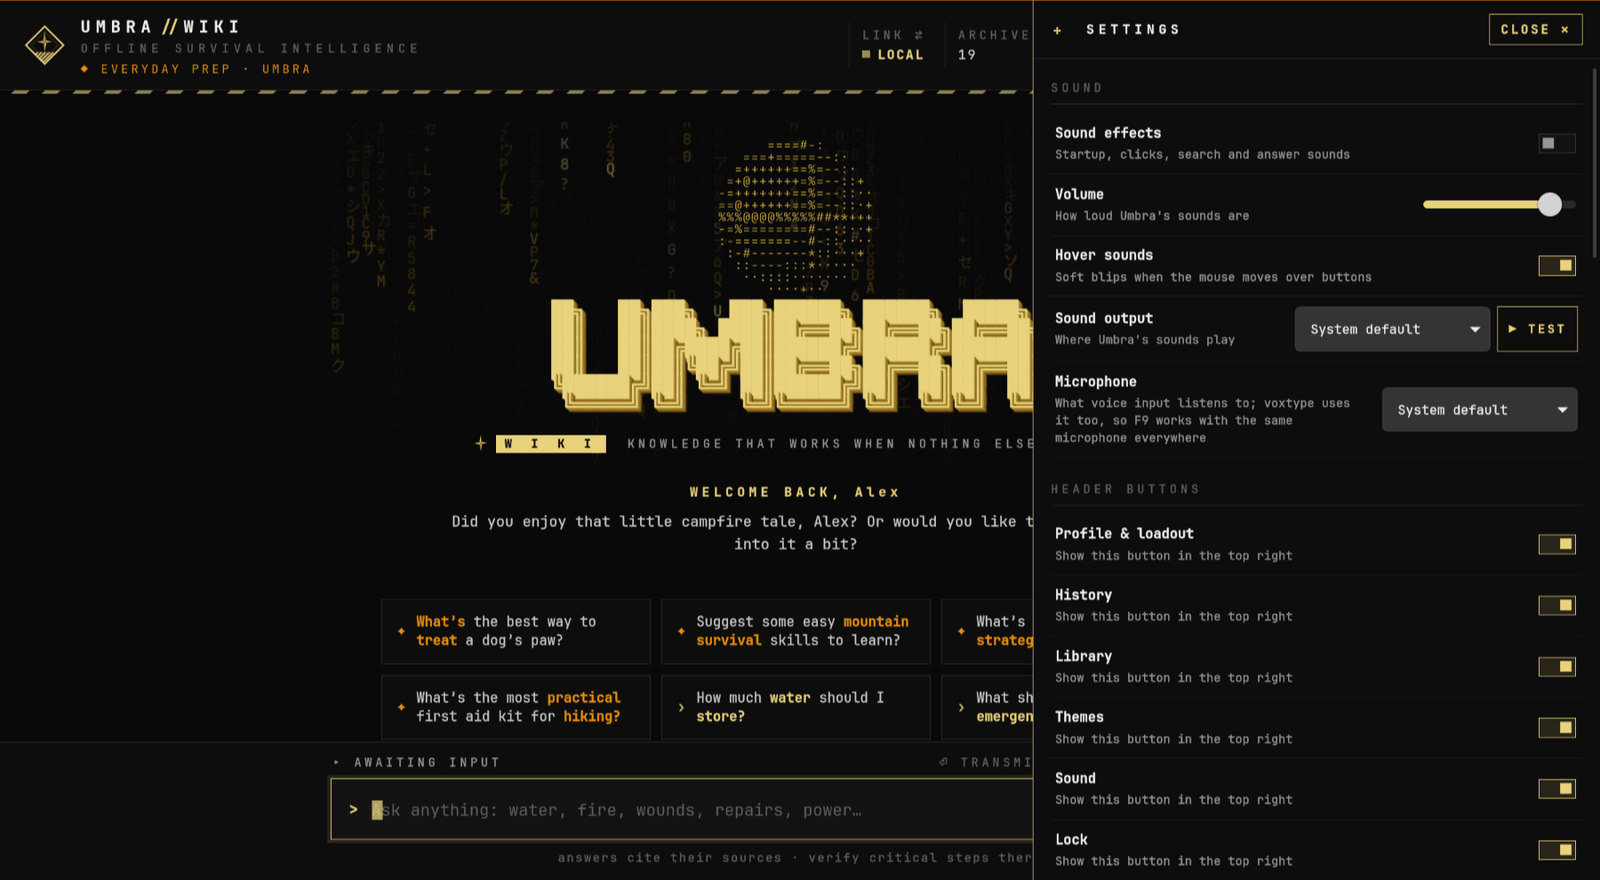
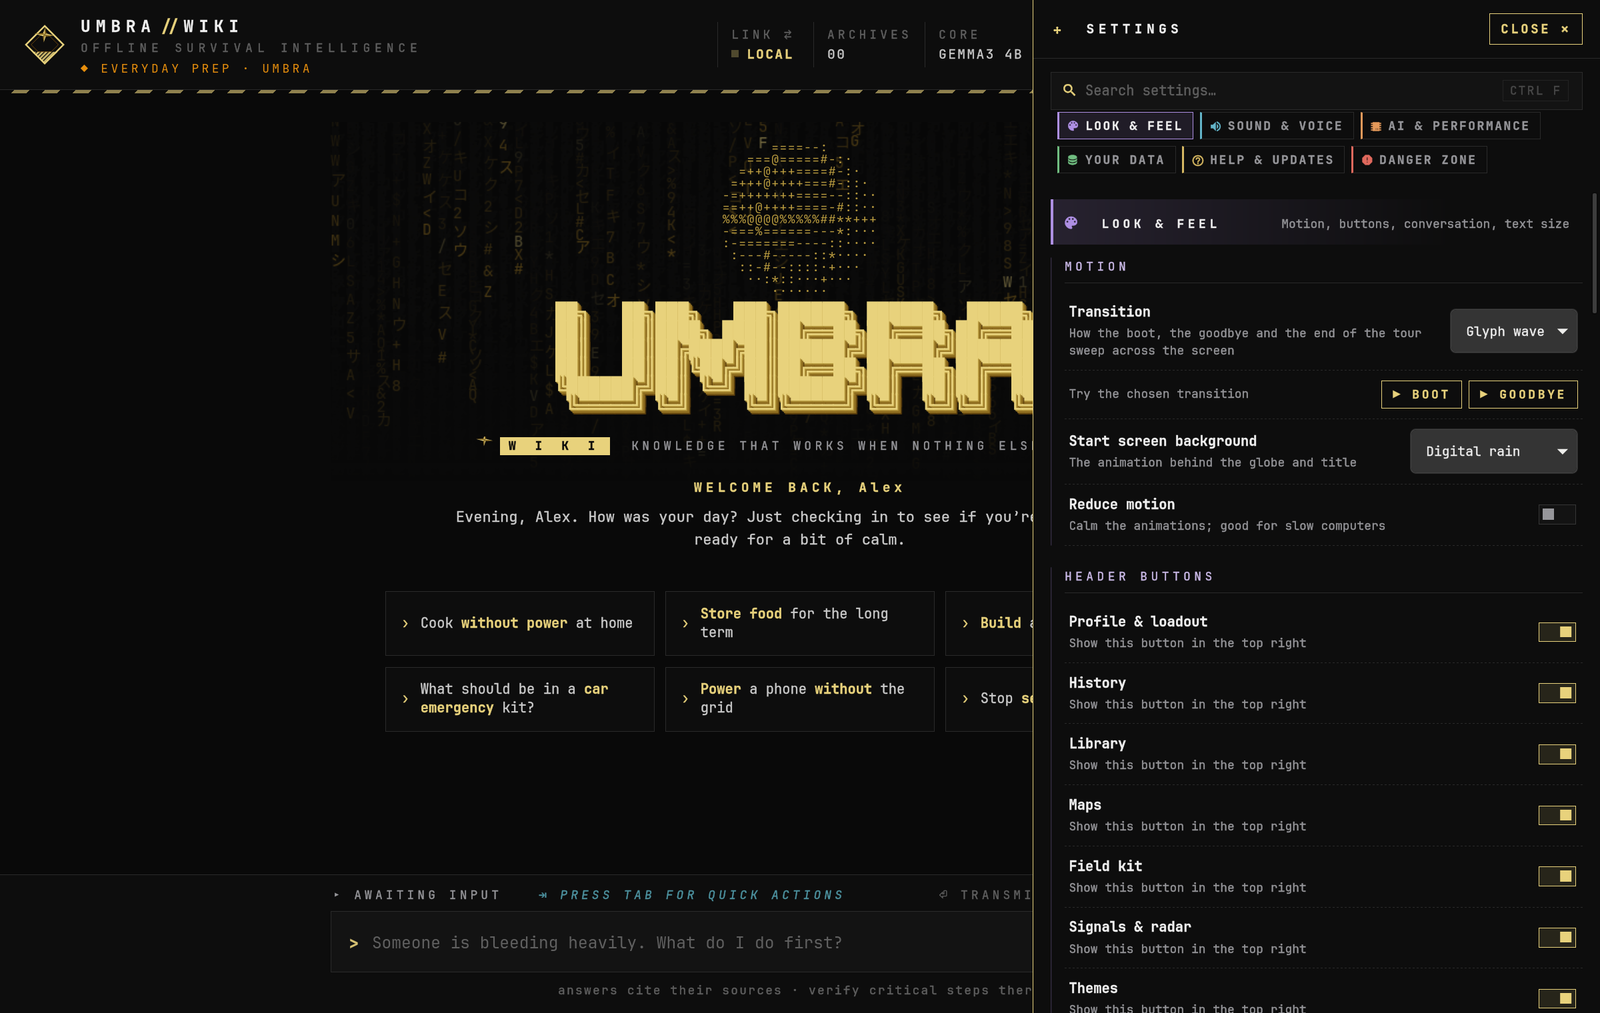
3.1.1: what's new shows highlights with a tour option, key sounds don't pile up, sounds on all new UI, tighter start screen, reset clears everything, new screenshots

diff --git a/umbra-wiki/ui/app.js b/umbra-wiki/ui/app.js
@@ -150,12 +150,21 @@ const Sound = (() => {
   return api;
 })();
 
+// A soft hover blip on the rows and buttons of the tools, like elsewhere.
+document.addEventListener("mouseover", (e) => {
+  const b = e.target.closest(".cal-day, .cal-urow, .rd-row, .rd-krow, .v-row, .v-libi, .tr-mcard, .hist-row .hopen, .hf, .fk-subnav button, .fk-subtabs button, .mp-pt, .tm-item, .set-chip, .manual-page");
+  if (!b || b === hoverLast) return;
+  hoverLast = b;
+  Sound.hover();
+});
+let hoverLast = null;
+
 // Every button in the tools (maps, field kit, downloads, settings) answers
 // with a click, unless it just made a sound of its own or plays a tone
 // (Morse keys, the metronome's tap).
 document.addEventListener("click", (e) => {
   const b = e.target.closest("button, .mp-pt, label.mp-opt, .set-chip");
-  if (!b || b.disabled || !b.closest("#maps, #fieldkit, #radar, #loadout, #history, #dl-pop, #settings, .news, .dl-toast, .toolrow")) return;
+  if (!b || b.disabled || !b.closest("#maps, #fieldkit, #radar, #loadout, #history, #library, #themes, #dl-pop, #settings, .news, .dl-toast, .toolrow, .tabguide, .hist-edit, .hist-move")) return;
   if (b.closest("[data-quiet], .fk-chart, .fk-key, .fk-tap")) return;
   setTimeout(Sound.tap, 30);
 });
@@ -2248,6 +2257,7 @@ form.addEventListener("submit", (e) => {
   else ask(q);
 });
 
+let keyRepeat = 0;
 input.addEventListener("keydown", (e) => {
   if (e.key === "Enter" && !e.shiftKey) { e.preventDefault(); form.requestSubmit(); return; }
   const k = e.key.toLowerCase();
@@ -2266,7 +2276,10 @@ input.addEventListener("keydown", (e) => {
     Sound.key();
     return;
   }
-  if (e.key.length === 1 || e.key === "Backspace") Sound.key();
+  // Held keys repeat fast: only every fourth repeat clicks.
+  if (e.key.length === 1 || e.key === "Backspace") {
+    if (!e.repeat) { keyRepeat = 0; Sound.key(); } else if (++keyRepeat % 4 === 0) Sound.key();
+  }
 });
 
 // Grows the prompt with its text. Measuring briefly collapses the box, which

diff --git a/umbra-wiki/ui/whatsnew.js b/umbra-wiki/ui/whatsnew.js
@@ -16,10 +16,10 @@
       <div class="news-head"><span>UPDATE INSTALLED · v${escapeHtml(info.version)}</span><button class="ghost news-x" title="Close">✕</button></div>
       <div class="news-title">WHAT'S NEW</div>
       <p class="news-lead">Umbra was updated. Everything you had is still here: conversations, maps, waypoints, settings and achievements.</p>
-      <ul class="news-list">${info.items.slice(0, 12).map((t, i) => `<li style="animation-delay:${120 + i * 45}ms">${fmt(t)}</li>`).join("")}
-        ${info.items.length > 12 ? `<li class="news-more">…and ${info.items.length - 12} more: see the full list in the changelog.</li>` : ""}</ul>
-      <div class="news-foot"><small>The full changelog is on GitHub and in Settings → Help & updates.</small>
-        <button class="solid news-ok">GOT IT ▸</button></div></div>`;
+      <ul class="news-list">${info.items.slice(0, 10).map((t, i) => `<li style="animation-delay:${120 + i * 45}ms">${fmt(t)}</li>`).join("")}</ul>
+      <div class="news-foot"><small>Every detail is in the changelog on GitHub.</small>
+        <span class="news-btns"><button class="ghost news-tour" title="Take the tour again|A guided look at everything, including what's new. Your profile and settings are kept: skip any question to keep your answer.">↻ TAKE THE TOUR</button>
+        <button class="solid news-ok">CONTINUE ▸</button></span></div></div>`;
     document.body.appendChild(box);
     Sound.glitch();
     const close = () => {
@@ -33,6 +33,7 @@
     document.addEventListener("keydown", esc, true);
     box.querySelector(".news-x").addEventListener("click", close);
     box.querySelector(".news-ok").addEventListener("click", close);
+    box.querySelector(".news-tour").addEventListener("click", () => { close(); setTimeout(() => window.startTour && window.startTour(), 450); });
     box.addEventListener("mousedown", (e) => { if (e.target === box) close(); });
     setTimeout(() => box.querySelector(".news-ok").focus(), 50);
   }

diff --git a/umbra-wiki/ui/style.css b/umbra-wiki/ui/style.css
@@ -234,7 +234,8 @@ main::-webkit-scrollbar-track { background: transparent; }
   display: grid; grid-template-columns: repeat(auto-fit, minmax(230px, 1fr));
   gap: 10px; max-width: 760px; margin: 6px auto 0; max-height: 600px; overflow: hidden;
 }
-.prompts-bar { display: flex; justify-content: flex-end; max-width: 760px; margin: 34px auto 0; }
+.prompts-bar { display: flex; justify-content: flex-end; max-width: 760px; margin: 12px auto 0; }
+.intro > .prompts-bar:nth-child(2), .subtitle + .prompts-bar { margin-top: 30px; }
 .prompts-toggle { padding: 2px 4px; cursor: pointer; font: 700 9.5px var(--font); letter-spacing: .24em; color: var(--faint); background: none; border: 0; transition: color .15s; }
 .prompts-toggle:hover { color: var(--signal); }
 body.prompts-anim .prompts { transition: max-height .45s cubic-bezier(.4, 0, .2, 1), opacity .35s, margin .45s, filter .35s; }
@@ -654,7 +655,7 @@ kbd { font: inherit; opacity: .7; margin-left: 4px; }
 
 /* ------------------------------------------------------- greeting & labels */
 
-.greet { margin: 26px auto 0; max-width: 640px; text-align: center; opacity: 0; transition: opacity .6s; }
+.greet { margin: 20px auto 0; max-width: 640px; text-align: center; opacity: 0; transition: opacity .6s; }
 .greet.in { opacity: 1; }
 .gname { color: var(--signal); font-weight: 800; letter-spacing: .3em; font-size: 12px; }
 .gtext { margin-top: 8px; color: var(--fg); font-size: calc(13.5px * var(--ts, 1)); line-height: 1.6; min-height: 1.6em; }
@@ -2377,3 +2378,6 @@ body.reduce-motion .cal-dots i.imp4 { animation: none; }
 #fieldkit, #loadout { position: fixed; }
 .fk > .tabguide, .loadout > .tabguide { bottom: 58px; }
 .maps .tabguide, .radar .tabguide { box-shadow: none; animation: none; }
+
+.news-btns { display: flex; gap: 8px; }
+.news-btns .ghost { padding: 8px 12px; font-size: 10.5px; }

diff --git a/umbra-wiki/ui/maps.js b/umbra-wiki/ui/maps.js
@@ -626,8 +626,8 @@
     const lon = (D - (1 + 2 * T1 + C1) * D ** 3 / 6 + (5 - 2 * C1 + 28 * T1 - 3 * C1 ** 2 + 8 * ep2 + 24 * T1 ** 2) * D ** 5 / 120) / Math.cos(p1);
     return { lat: lat / toRad, lon: ((zone - 1) * 6 - 180 + 3) + lon / toRad };
   }
-  // Coordinates in the forms the map shows (52.0907° N 5.1214° E, with or
-  // without "·" between them), N52.09 E5.12, 52.09, 5.12, degrees-minutes-
+  // Coordinates in the forms the map shows (45.9237° N 6.8694° E, with or
+  // without "·" between them), N45.92 E6.87, 45.92, 6.87, degrees-minutes-
   // seconds, or MGRS (31U FT 50912 81543).
   function parseCoords(text) {
     const t = text.trim().toUpperCase().replace(/^(CENTRE|CURSOR|MGRS)\s+/, "").replace(/[·;|]/g, " ").replace(/\s+/g, " ").trim();
@@ -1155,7 +1155,7 @@
       <div class="mp-head">
         <span class="lo-title"><span class="spin" data-spin>✻</span> MAPS</span>
         <div class="mp-search"><span class="g"></span>
-          <input placeholder="Search towns, streets, water, coordinates (52.09° N 5.12° E) or MGRS…" spellcheck="false" autocomplete="off">
+          <input placeholder="Search towns, streets, water, coordinates (45.92° N 6.87° E) or MGRS…" spellcheck="false" autocomplete="off">
           <div class="mp-results" hidden></div></div>
         <div class="mp-tools">
           <div class="pf-choice mp-style"><button data-s="topo" title="Topographic|A paper military map: green woods, blue water, brown relief.">TOPO</button><button data-s="tactical" title="Tactical|A dark map in the colours of your Umbra theme.">TACTICAL</button></div>

diff --git a/umbra-wiki/ui/fieldkit.js b/umbra-wiki/ui/fieldkit.js
@@ -427,7 +427,7 @@
     let mapView = null;
     try { const v = JSON.parse(localStorage.getItem("umbra-maps") || "{}").view; if (v) mapView = { lat: (Math.atan(Math.sinh(Math.PI * (1 - 2 * v.y))) * 180) / Math.PI, lon: ((v.x * 360 + 360) % 360) - 180 }; } catch {}
     const saved = store.get("sky", null);
-    if (!skyPlace) skyPlace = saved || (mapView ? { name: "Map centre", ...mapView } : { name: "Map centre", lat: 52.09, lon: 5.12 });
+    if (!skyPlace) skyPlace = saved || (mapView ? { name: "Map centre", ...mapView } : { name: "Map centre", lat: 45.92, lon: 6.87 });
     const today = new Date();
     body.innerHTML = `<div class="fk-sky">
       <section class="fk-card fk-orrery"></section>

diff --git a/umbra-wiki/ui/settings.js b/umbra-wiki/ui/settings.js
@@ -783,6 +783,9 @@
       method: "POST", headers: { "Content-Type": "application/json" }, body: JSON.stringify({ confirm: "RESET" }),
     }).catch(() => null);
     if (!res || !res.ok) { Sound.error(); return; }
+    // What the window keeps goes too (training scores, the patient chart,
+    // timers, guides, map view...), so it really starts over.
+    try { Object.keys(localStorage).filter((k) => k.startsWith("umbra")).forEach((k) => localStorage.removeItem(k)); } catch {}
     location.reload();
   }
   window.resetUmbra = resetUmbra;

diff --git a/umbra-wiki/server.py b/umbra-wiki/server.py
@@ -137,15 +137,19 @@ UMBRA_GUIDE = (
     "and read); CARDS tab that prints pocket cards and an ID and medical card. "
     "MAPS (Ctrl+G): offline world map, downloadable detailed areas, search, coordinates and MGRS, "
     "waypoints, measuring, clickable country files with facts, and safety levels per country. "
-    "SIGNALS & RADAR (Ctrl+J): nearby Wi-Fi and Bluetooth signals on a radar, intel and an event log, the "
-    "device's vitals, and a KILL SWITCH that turns all radios off at once. LIBRARY (Ctrl+L): offline collections and the built-in Umbra Field Manual. HISTORY (Ctrl+H) "
-    "with folders; PROFILE and LOADOUT (scenarios, personalities, achievements); THEMES (Ctrl+T); "
-    "SETTINGS with search. Everything works offline; only online mode, downloads and the update check use "
+    "SIGNALS & RADAR (Ctrl+J): nearby Wi-Fi and Bluetooth signals on a radar, INTEL, a DEVICES list that "
+    "remembers every device heard and marks new ones, the device's vitals, and a KILL SWITCH that turns all radios off at once. "
+    "DOWNLOADS (maps, library, AI model, manuals) can be paused and resumed from the button at the top. "
+    "Every screen shows a short first-look guide the first time; the welcome tour can be replayed from Settings. LIBRARY (Ctrl+L): offline collections and the built-in Umbra Field Manual. HISTORY (Ctrl+H) "
+    "with folders (each with a brief you keep in mind); PROFILE (name, callsign, skills, health, blood type, allergies, "
+    "medication, emergency contact, household) and LOADOUT (scenarios, personalities, achievements); THEMES (Ctrl+T), e.g. "
+    "Arctic Kill, Hazmat, Paper Map, Thermal; SETTINGS in six groups with search, backups and restore. Everything works offline; only online mode, downloads and the update check use "
     "the internet. In the prompt, Tab opens quick actions. When you mention a tool, name it exactly as above."
 )
 ABOUT_UMBRA = re.compile(r"\b(umbra|this app|the app|your (features|tools|functions)|what can you do|what are you|who are you|"
                          r"how do (i|you) use|field kit|medic tab|vault|radar|sun (and|&) moon|pocket cards?|morse trainer|"
-                         r"settings|shortcut|offline map|waypoint|help me with the app)\b", re.I)
+                         r"settings|shortcut|offline map|waypoint|calendar|reminder|manuals?|radar|kill switch|theme|tour|download|backup|"
+                         r"profile|achievement|help me with the app)\b", re.I)
 
 STOPWORDS = set("""
 a an the and or but if then so of to in on at by for from with without about into over under
@@ -1041,16 +1045,28 @@ def hum(on):
         _hum = subprocess.Popen(player(path), stdout=subprocess.DEVNULL, stderr=subprocess.DEVNULL)
 
 
+_sound_procs = {}
+
+
 def play_sound(name):
     """Play a bundled sound through PipeWire (independent of the web view)."""
     path = os.path.join(SOUNDS_DIR, name + ".ogg")
     if not re.fullmatch(r"[a-z]{1,16}", name) or not os.path.isfile(path) or not player(path):
         return False
     now = time.monotonic()
-    if now - _last_sound.get(name, 0) < 0.04:  # collapse accidental double triggers
+    gap = 0.07 if name in ("key", "hover") else 0.04
+    if now - _last_sound.get(name, 0) < gap:  # collapse accidental double triggers and key repeat
         return True
     _last_sound[name] = now
-    subprocess.Popen(player(path), stdout=subprocess.DEVNULL, stderr=subprocess.DEVNULL)
+    # Short interface sounds never pile up: a new one cuts the previous one
+    # of its kind (holding Backspace doesn't leave a tail of clicks).
+    prev = _sound_procs.get(name)
+    if name in ("key", "hover", "click") and prev and prev.poll() is None:
+        try:
+            prev.terminate()
+        except OSError:
+            pass
+    _sound_procs[name] = subprocess.Popen(player(path), stdout=subprocess.DEVNULL, stderr=subprocess.DEVNULL)
     return True
 
 
@@ -1986,7 +2002,7 @@ def reset_umbra():
     are deleted (downloaded maps stay, like the library). The AI model,
     the library and config.json (model, library folder) are kept."""
     for path in (SETTINGS_FILE, PROFILE_FILE, CUSTOM_THEMES_FILE, PERSONALITIES_FILE, SCENARIOS_FILE, LOCK_FILE, ACH_FILE,
-                 WAYPOINTS_FILE, SUPPLIES_FILE, SAFETY_FILE, FOLDERS_FILE, VAULT_FILE, radar.KNOWN_FILE, CALENDAR_FILE):
+                 WAYPOINTS_FILE, SUPPLIES_FILE, SAFETY_FILE, FOLDERS_FILE, VAULT_FILE, radar.KNOWN_FILE, CALENDAR_FILE, MANUALS_STATE):
         try:
             os.remove(path)
         except OSError:
@@ -2148,7 +2164,12 @@ def whats_new():
             continue
         m = re.search(rf"^## {re.escape(VERSION)}\s*\n(.*?)(?=^## |\Z)", text, re.S | re.M)
         if m:
-            for bullet in re.split(r"\n- ", "\n" + m.group(1).strip()):
+            body = m.group(1)
+            # Only the highlights, when the version has them.
+            h = re.search(r"^### Highlights\s*\n(.*?)(?=^### |\Z)", body, re.S | re.M)
+            if h:
+                body = h.group(1)
+            for bullet in re.split(r"\n- ", "\n" + body.strip()):
                 bullet = " ".join(bullet.split()).lstrip("- ").strip()
                 if bullet:
                     items.append(bullet)

diff --git a/README.md b/README.md
@@ -163,8 +163,8 @@ slid and scaled.
   street is about 0.8 GB.
 - **Search** towns, streets, water and places across every downloaded map,
   nearest first (try "drinking water"), or type coordinates the way the map
-  shows them (`52.0907° N 5.1214° E`, `N52.09 E5.12`, `52.09, 5.12`,
-  `52°5'26"N 5°7'17"E`) or an MGRS reference (`31U FT 45332 73249`). Every
+  shows them (`45.9237° N 6.8694° E`, `N45.92 E6.87`, `45.92, 6.87`,
+  `45°55'25"N 6°52'10"E`) or an MGRS reference (`32T LR 34797 87777`). Every
   place card has a **COPY** button for its coordinates.
 - **Country files:** every country's name can be clicked. The camera centres
   on it, its outline lights up and a dark data window glitches in, tied to
@@ -188,7 +188,7 @@ never part of an update or of someone else's install. Every button has a
 tooltip that says what it does.
 
 ![Maps, topographic style with relief and contours](docs/maps-topo.png)
-![Maps, tactical style](docs/maps-tactical.png)
+![Maps, tactical style with a country file](docs/maps-tactical.png)
 
 ### Field Kit
 
@@ -241,7 +241,11 @@ The tools that can matter between life and death, all offline (Ctrl+K):
   waypoints with MGRS, your supplies, emergency contacts and notes, printed
   four to an A4 page to cut out; a sketch shows the page before you print.
 
-![Field Kit](docs/fieldkit.png)
+![Field Kit: medic tools](docs/fieldkit.png)
+![Sun & Moon with the live Earth](docs/sky.png)
+![Calendar](docs/calendar.png)
+![The Vault](docs/vault.png)
+![Training: field manuals](docs/training.png)
 
 ### Signals & Radar
 

diff --git a/CHANGELOG.md b/CHANGELOG.md
@@ -2,6 +2,19 @@
 
 ## 3.1.1
 
+### Highlights
+
+- **Maps**: offline OpenStreetMap maps down to street level, with country files, your own safety levels, military-style waypoints and downloads you can pause.
+- **Field Kit**: medic tools (CPR, triage, burns, child doses, patient chart), a live Earth, Sun and Moon, supplies, a **Calendar** and the password-locked **Vault**.
+- **Training**: Morse challenge, radio, grid references, compass, and real field manuals to download.
+- **Signals & Radar**: the Wi-Fi and Bluetooth signals around you, the devices it has seen, and a kill switch.
+- **Umbra knows you**: your profile, health notes, supplies and plans shape every answer; press **Tab** for quick actions.
+- **A fresher look**: redesigned themes (try Arctic Kill), a new profile page, history folders and first-look guides.
+- **Achievements**, settings in coloured groups, and a note like this one after every update.
+
+### All changes
+
+
 - **Calendar** in the Field Kit: browse months, add reminders in six colours
   and four levels of importance, once or repeating; Umbra adds when your
   water and food run out, best-before dates, first-aid timers and the moon's
